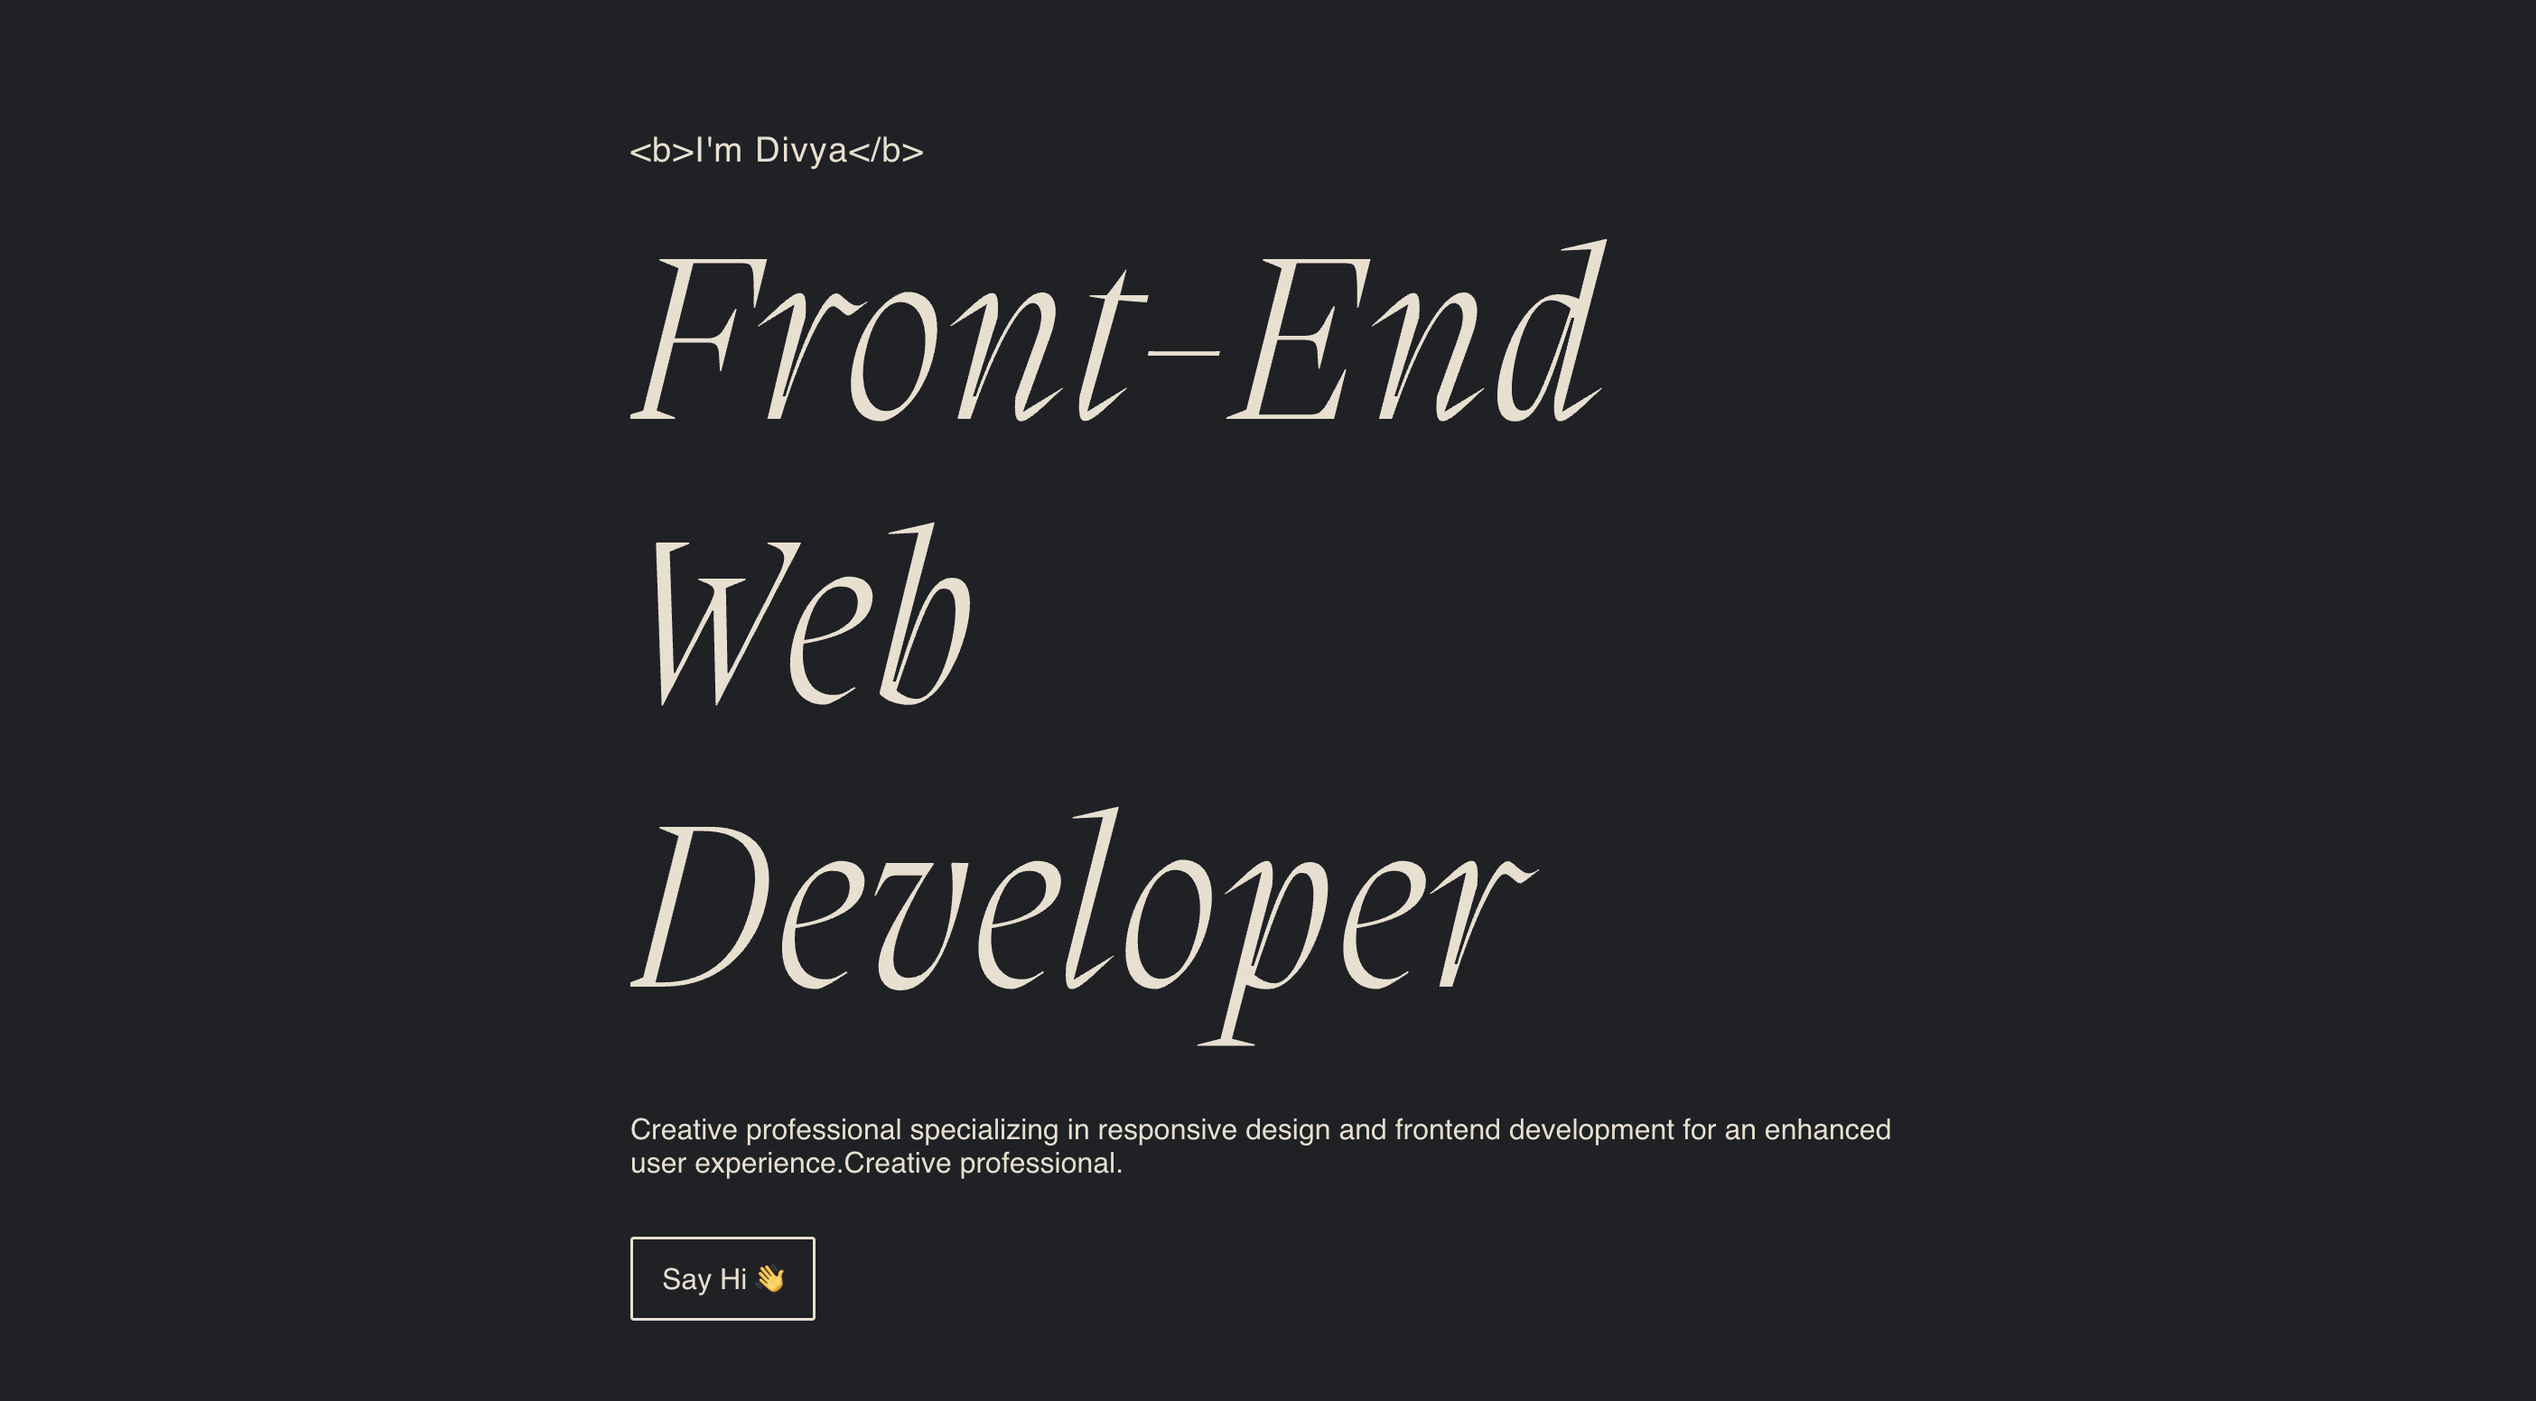
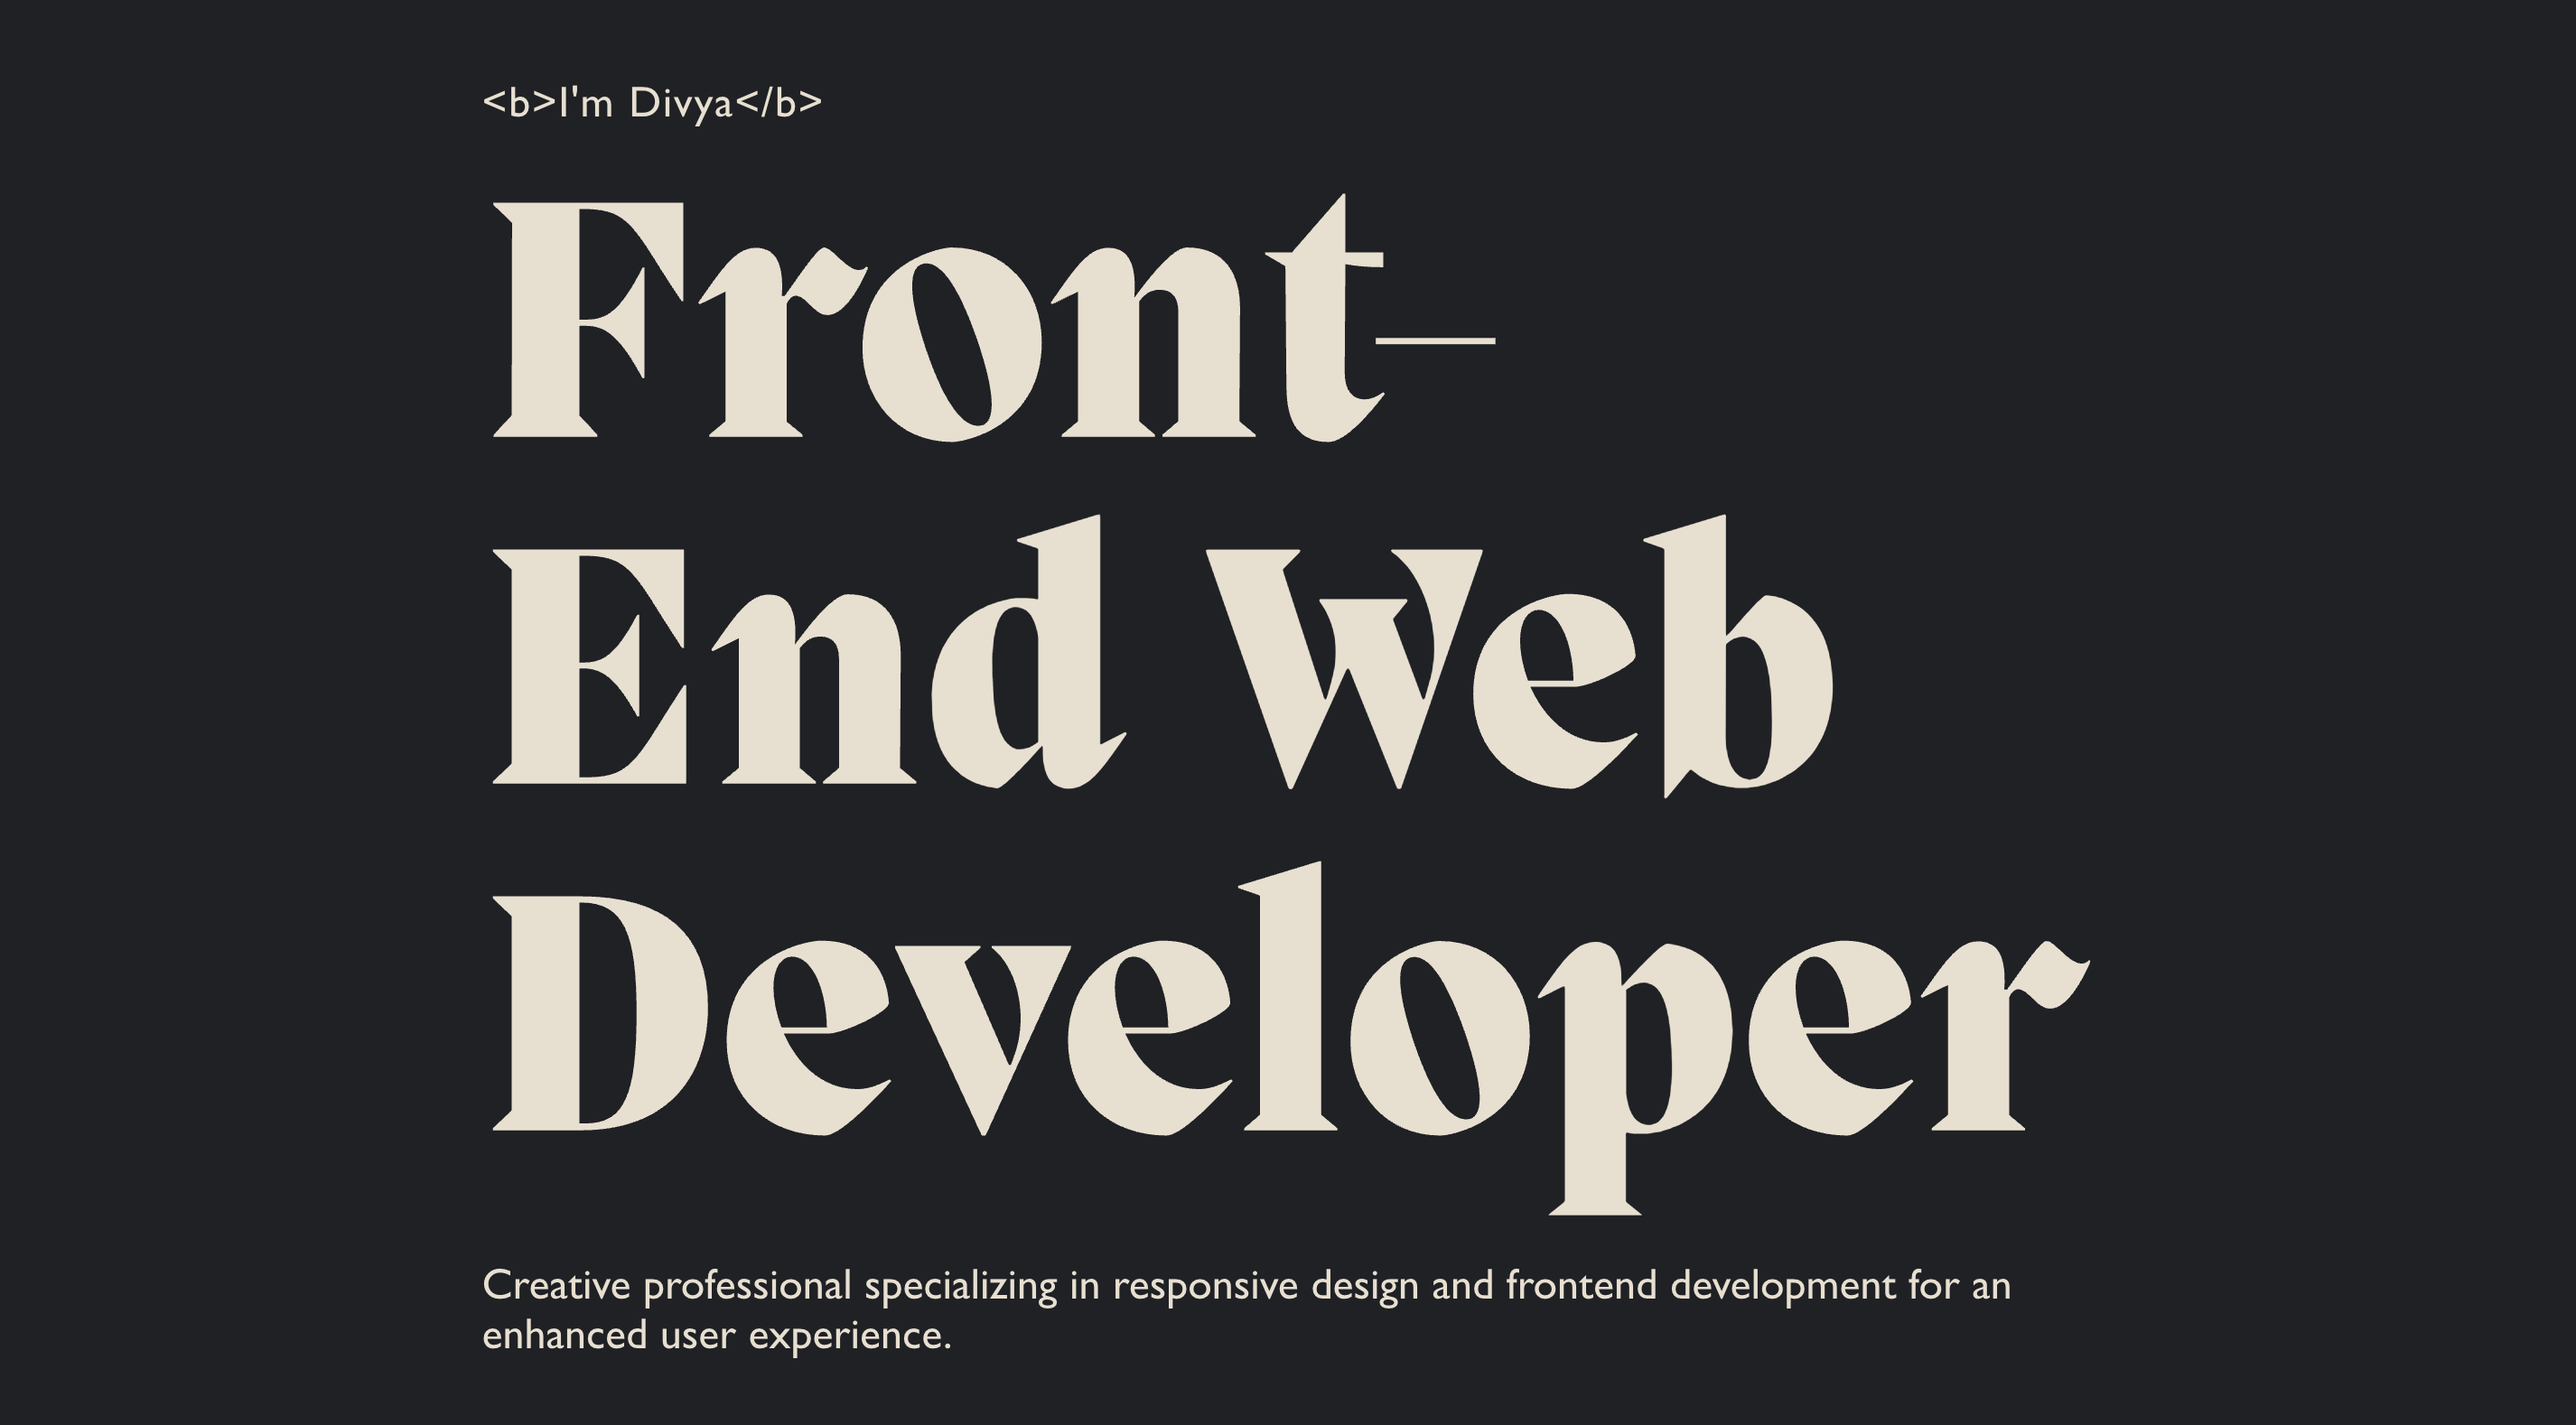
Fixed fonts according to breakpoints

diff --git a/src/components/skills.tsx b/src/components/skills.tsx
@@ -1,6 +1,6 @@
 import { Container, Row, Col } from "react-bootstrap";
 import "../assets/styling/skills.css";
-import navIcon3 from "../assets/images/social/nav-icon3.svg";
+import express from '../assets/images/tech/express.svg';
 import typescript from "../assets/images/tech/typescript.svg";
 import node from "../assets/images/tech/node.svg";
 import react from "../assets/images/tech/react.svg";
@@ -20,74 +20,74 @@ export const Skills = () => {
           <h3>Skills</h3>
           <Col className="skills">
             <Row>
-              <Col xs={4} sm={3} md={3} lg={3}>
+              <Col xs={4} sm={3} md={3}>
                 <figure>
                   <img src={react} alt="" className="img-fluid"></img>
                   <figcaption>React</figcaption>
                 </figure>
               </Col>
-              <Col xs={4} sm={3} md={3} lg={3}>
+              <Col xs={4} sm={3} md={3}>
                 <figure>
                   <img src={html} alt="" className="img-fluid"></img>
                   <figcaption>HTML5</figcaption>
                 </figure>
               </Col>
-              <Col xs={4} sm={3} md={3} lg={3}>
+              <Col xs={4} sm={3} md={3}>
                 <figure>
                   <img src={css} alt="" className="img-fluid"></img>
                   <figcaption>CSS3</figcaption>
                 </figure>
               </Col>
-              <Col xs={4} sm={3} md={3} lg={3}>
+              <Col xs={4} sm={3} md={3}>
                 <figure>
                   <img src={javascript} alt="" className="img-fluid"></img>
                   <figcaption>JavaScript</figcaption>
                 </figure>
               </Col>
 
-              <Col xs={4} sm={3} md={3} lg={3}>
+              <Col xs={4} sm={3} md={3}>
                 <figure>
                   <img src={typescript} alt="" className="img-fluid"></img>
                   <figcaption>TypeScript</figcaption>
                 </figure>
               </Col>
-              <Col xs={4} sm={3} md={3} lg={3}>
+              <Col xs={4} sm={3} md={3}>
                 <figure>
                   <img src={node} alt="" className="img-fluid"></img>
                   <figcaption>Node</figcaption>
                 </figure>
               </Col>
-              <Col xs={4} sm={3} md={3} lg={3}>
+              <Col xs={4} sm={3} md={3}>
                 <figure>
-                  <img src={navIcon3} alt="" className="img-fluid"></img>
+                  <img src={express} alt="" className="img-fluid"></img>
                   <figcaption>Express</figcaption>
                 </figure>
               </Col>
-              <Col xs={4} sm={3} md={3} lg={3}>
+              <Col xs={4} sm={3} md={3}>
                 <figure>
                   <img src={mongo} alt="" className="img-fluid"></img>
                   <figcaption>MongoDB</figcaption>
                 </figure>
               </Col>
-              <Col xs={4} sm={3} md={3} lg={3}>
+              <Col xs={4} sm={3} md={3}>
                 <figure>
                   <img src={aws} alt="" className="img-fluid"></img>
                   <figcaption>AWS</figcaption>
                 </figure>
               </Col>
-              <Col xs={4} sm={3} md={3} lg={3}>
+              <Col xs={4} sm={3} md={3}>
                 <figure>
                   <img src={git} alt="" className="img-fluid"></img>
                   <figcaption>Git</figcaption>
                 </figure>
               </Col>
-              <Col xs={4} sm={3} md={3} lg={3}>
+              <Col xs={4} sm={3} md={3}>
                 <figure>
                   <img src={jest} alt="" className="img-fluid"></img>
                   <figcaption>Jest</figcaption>
                 </figure>
               </Col>
-              <Col xs={4} sm={3} md={3} lg={3}>
+              <Col xs={4} sm={3} md={3}>
                 <figure>
                   <img src={javascript} alt="" className="img-fluid"></img>
                   <figcaption>JavaScript</figcaption>

diff --git a/src/App.css b/src/App.css
@@ -7,18 +7,18 @@
 
   --fs-xl: clamp(7rem, 10vw + 1rem, 15rem);
   --fs-l: clamp(3rem, 4rem, 6rem);
-  --fs-md: clamp(1.2rem, 1.7rem, 3rem);
+  --fs-md: clamp(1.2rem, 2.5rem, 3rem);
   --fs-sm: clamp(0.8rem, 1.4rem, 2rem);
   --fs-xs: clamp(0.5rem, 1.1rem, 5rem);
 }
 
 @media only screen and (min-width: 55rem) {
-  body {
-    --fs-xl: clamp(7rem, 15vw + 1rem, 30rem);
-    --fs-l: clamp(10rem, 20rem, 25rem);
-    --fs-md: clamp(3rem, 5rem, 7rem);
-    --fs-sm: clamp(0.8rem, 1.1rem, 2rem);
-    --fs-xs: 8rem;
+  * {
+    --fs-xl: clamp(15rem, 20rem, 30rem);
+    --fs-l: clamp(10rem, 10rem, 18rem);
+    --fs-md: clamp(3rem, 3rem, 9rem);
+    --fs-sm: clamp(0.8rem, 1.5rem, 3rem);
+    --fs-xs: clamp(1rem, 1.2rem, 3rem);
   }
 }
 
@@ -82,30 +82,6 @@ Col {
 @media (prefers-reduced-motion: no-preference) {
   .App-logo {
     animation: App-logo-spin infinite 20s linear;
-  }
-}
-
-.App-header {
-  background-color: #282c34;
-  min-height: 100vh;
-  display: flex;
-  flex-direction: column;
-  align-items: center;
-  justify-content: center;
-  font-size: calc(10px + 2vmin);
-  color: white;
-}
-
-.App-link {
-  color: #61dafb;
-}
-
-@keyframes App-logo-spin {
-  from {
-    transform: rotate(0deg);
-  }
-  to {
-    transform: rotate(360deg);
   }
 }
 

diff --git a/src/components/portfolio.tsx b/src/components/portfolio.tsx
@@ -38,11 +38,11 @@ export const Portfolio = () => {
       <ScrollContainer>
         {/* Hello World */}
         <div id="hello">
-        <ScrollPage>
-          <Animator animation={batch(Sticky(), Fade(), MoveOut(0, -300))}>
-            <HelloWorld />
-          </Animator>
-        </ScrollPage>
+          <ScrollPage>
+            <Animator animation={batch(Sticky(), Fade(), MoveOut(0, -300))}>
+              <HelloWorld />
+            </Animator>
+          </ScrollPage>
         </div>
         {/* Hero */}
         <ScrollPage>
@@ -57,14 +57,9 @@ export const Portfolio = () => {
           </Animator>
         </ScrollPage>
         {/* Projects */}
-        {/* <ScrollPage className="projects-page">
-          <Animator animation={FadeIn(50, 100)}>
-            <Projects />
-          </Animator>
-        </ScrollPage> */}
         <Projects />
         {/* Navigation */}
-        <ScrollPage className="navigation">
+        <ScrollPage className="portfolio">
           <Animator animation={SlideIn}>
             <h2
               onClick={(e: React.MouseEvent<HTMLElement>) =>

diff --git a/src/components/aboutMe.tsx b/src/components/aboutMe.tsx
@@ -64,9 +64,8 @@ export const About = () => {
               With a keen interest in frontend development, I love crafting
               beautiful and intuitive user experiences that leave a lasting
               impression. When I'm not coding, you can find me exploring the
-              world of acrylic painting, where every brushstroke tells a story,
-              or wandering the streets with my vintage film camera, capturing
-              the essence of life in Tokyo.
+              world of acrylic painting, or wandering the streets with my film camera, capturing
+              the essence of life in Japan.
               <br />
               <br />
               And of course, my love affair with Mt. Fuji 🗻 continues to inspire

diff --git a/src/assets/styling/notFound.css b/src/assets/styling/notFound.css
@@ -8,6 +8,7 @@
   text-align: center;
   background-position: center;
   position: relative;
+
 }
 
 .overlay {
@@ -17,22 +18,27 @@
   left: 0;
   width: 100%;
   height: 100%;
+  overflow-y: hidden;
 }
 
 .not-found span {
-    position: absolute;
-    width: 100%;
-    display: inline-block;
-    bottom: 0;
-    left: 0;
-    background-color: rgba(0, 0, 0, 0.5);
+  position: absolute;
+  width: 100%;
+  display: inline-block;
+  bottom: 0;
+  left: 0;
+  background-color: rgba(0, 0, 0, 0.5);
 }
 
 .not-found h1 {
-  font-size: clamp(3.5rem, 1rem + 10vw, 5rem);
+  font-size: var(--fs-md); 
 }
 
 .not-found p {
   font-size: clamp(1rem, 1.2rem, 3rem);
   padding: 0.5rem 0;
+}
+
+.not-found a {
+  font-size: var(--fs-md);
 }

diff --git a/src/components/404.tsx b/src/components/404.tsx
@@ -1,15 +1,22 @@
 import "../assets/styling/notFound.css";
 
 export const NotFound = () => {
+  const getNextPage = (path: string) => {
+    window.location.pathname = path;
+  };
   return (
     <div className="not-found">
       <div className="overlay">
         <span>
-          <h1>404</h1>
+          <h1>Where are you going?</h1>
+          <a href="/" onClick={() => getNextPage("/")}>
+            🤘 Come back 🤘
+          </a>
           <p>
             I tried to find the webpage, but it's out there somewhere, living
             its best life, like a wild internet unicorn.
           </p>
+          
         </span>
       </div>
     </div>

diff --git a/src/assets/styling/navbar.css b/src/assets/styling/navbar.css
@@ -3,10 +3,8 @@ nav.navbar {
   position: fixed;
   width: 100%;
   top: 0;
-  z-index: 9999;
   transition: 0.32 ease-in-out;
   background-color: #1e2125 !important;
-  text-align: center;
   color: #e9dfce !important;
   font-size: var(--fs-sm);
 }
@@ -15,10 +13,13 @@ nav.navbar .navbar-nav .nav-link .navbar-link {
   font-weight: 500;
   color: #e9dfce !important;
   padding: 0 1rem;
-  opacity: 0.7;
 }
 
 nav.navbar .navbar-nav a.nav-link.navbar-link:hover,
 nav.navbar .navbar-nav a.nav-link.navbar-link.active {
-  opacity: 1;
+  text-decoration: underline !important;
+}
+
+.navBar nav-link {
+  text-align: right !important;
 }

diff --git a/src/assets/styling/contact.css b/src/assets/styling/contact.css
@@ -3,13 +3,14 @@
 }
 
 .contact-container h4 {
-  font-size: var(--fs-l);
+  font-size: var(--fs-md);
   font-family: Migra-light;
   letter-spacing: 0.1rem;
   line-height: 1;
   margin: 3rem 0 1rem 0;
   display: flex;
   overflow-y: hidden;
+  padding-top: 2rem;
 }
 
 .contact {
@@ -36,8 +37,8 @@
 }
 
 .contact-btn:hover {
-  background-color: #1e2125;
-  color: #e9dfce;
+  background-color: #e9dfce !important;
+  color: #1e2125;
   border: 0.1em solid #e9dfce;
 }
 

diff --git a/src/assets/styling/skills.css b/src/assets/styling/skills.css
@@ -1,7 +1,7 @@
 .info-grid {
   color: #f9fefe;
   margin: auto;
-  padding: 1rem;
+  padding: 8rem 1rem;
   max-width: 50rem;
   text-align: center;
   min-height: 50rem;
@@ -12,14 +12,13 @@
   padding: 2rem 0.5rem;
 }
 
-.skills p {
-  font-family: Migra-light-italic;
-}
 
 .info-grid h3 {
   text-align: center;
   padding-bottom: 1rem;
   font-size: var(--fs-md);
+  font-family: Migra-light-italic;
+  border-bottom: 1px solid #e9dfce;
 }
 
 .info-grid img {

diff --git a/src/components/hero.tsx b/src/components/hero.tsx
@@ -6,7 +6,7 @@ export const Hero = () => {
   };
   return (
     <div className="hero" id="hero">
-      <span className="hero-name hero-text">{`<b>I'm Divya</b>`}</span>
+      <span className="hero-name hero-text">{`<b>I'm Divya Kulkarni</b>`}</span>
       <h1>{`Front-End Web Developer`}</h1>
       <p className="hero-text">
         Creative professional specializing in responsive design and frontend

diff --git a/src/assets/styling/projects.css b/src/assets/styling/projects.css
@@ -6,15 +6,18 @@
 
 .projects h3 {
   text-align: center;
-  padding-bottom: 2rem;
   font-size: var(--fs-md);
+  font-family: Migra-light-italic;
+  border-bottom: 1px solid #e9dfce;
+  padding-bottom: 1rem;
 }
 
-.projects row {
+.projects Row {
   display: flex;
   flex-wrap: wrap;
   align-items: center;
   margin: 0 !important;
+  padding-top: 2rem;
 }
 
 .projects img {

diff --git a/src/assets/styling/portfolio.css b/src/assets/styling/portfolio.css
@@ -1,5 +1,13 @@
-h2 {
+.portfolio h2 {
   font-size: var(--fs-md);
+  font-family: Migra-light;
+  padding-top: 1rem;
+  margin: 0;
+  border-bottom: 1px solid #e9dece;
+}
+
+.portfolio h2:hover {
+  cursor: pointer;
 }
 
 .projects-page {
@@ -12,4 +20,8 @@ h2 {
 
 .projects-page::-webkit-scrollbar {
   display: none;
+}
+
+.portfolio a {
+  text-decoration: none;
 }
